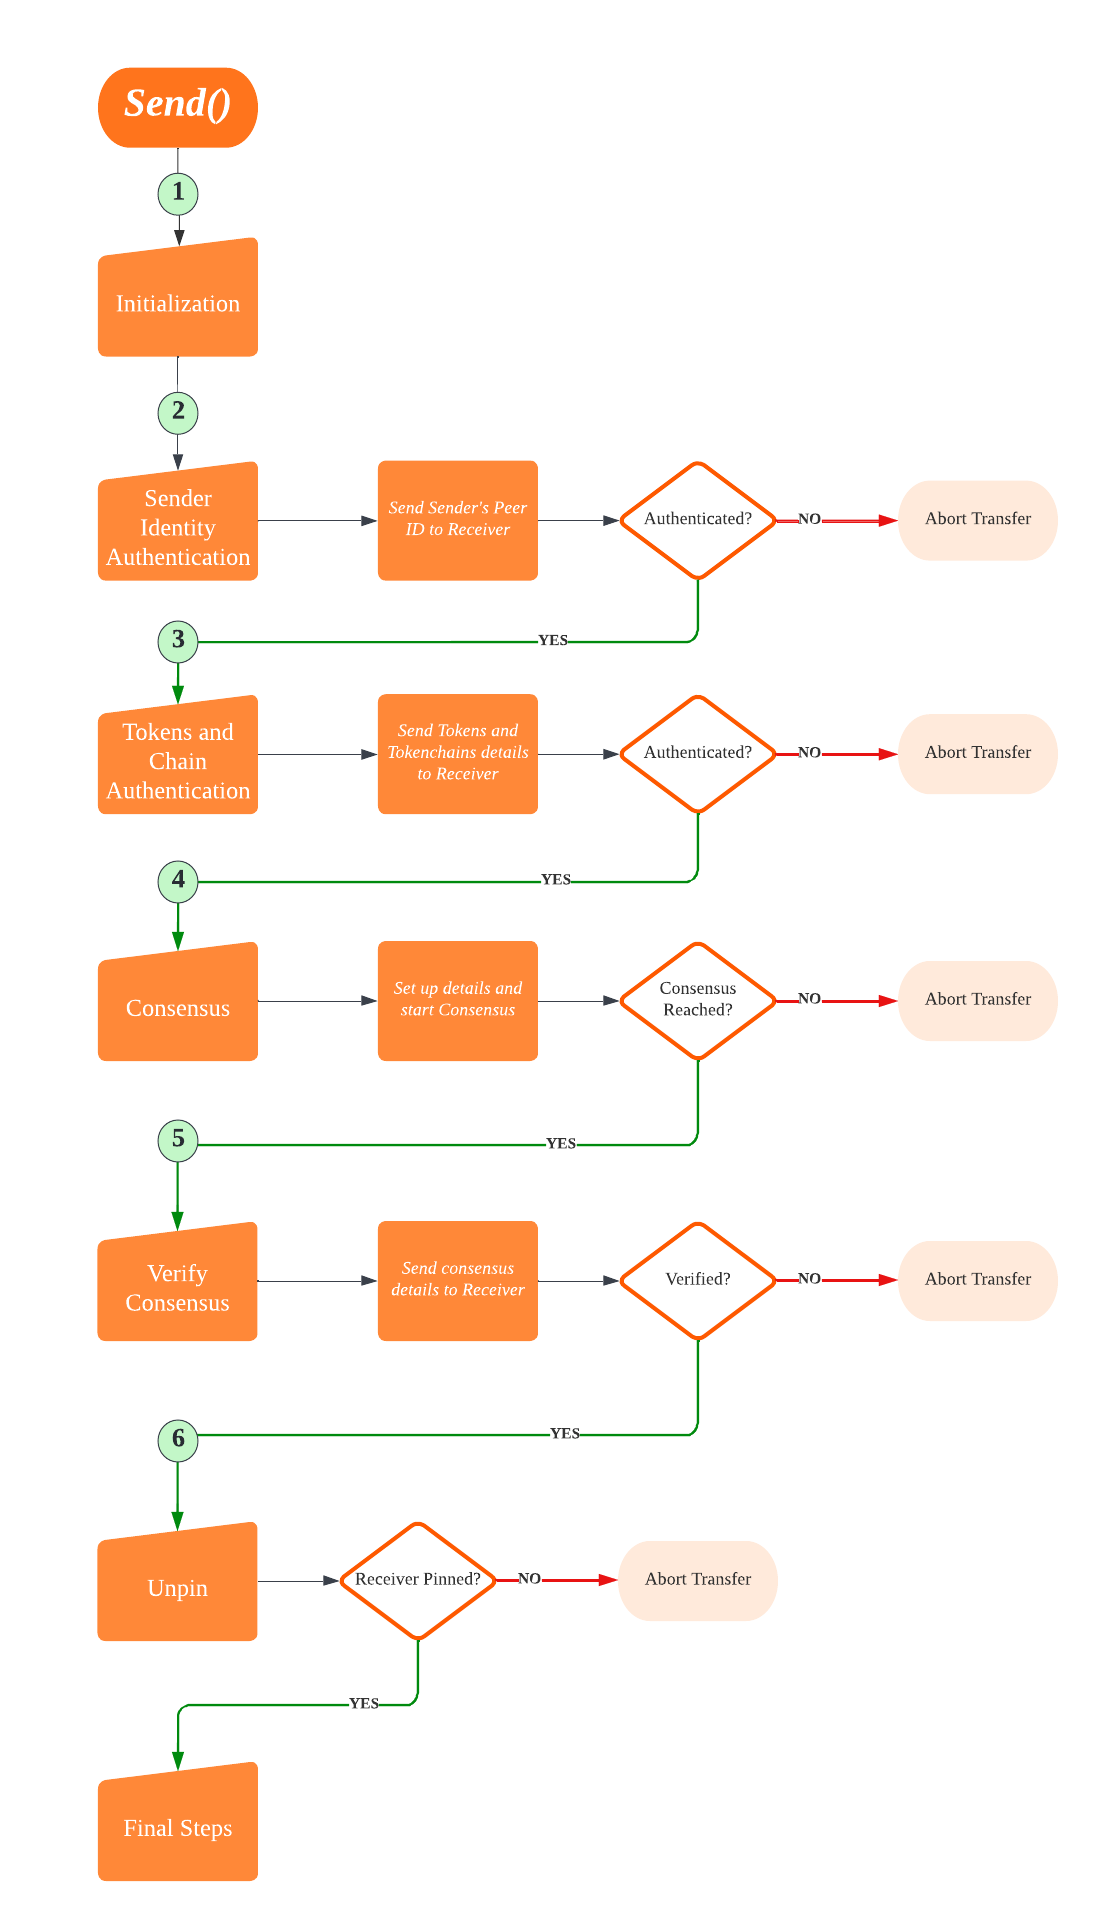
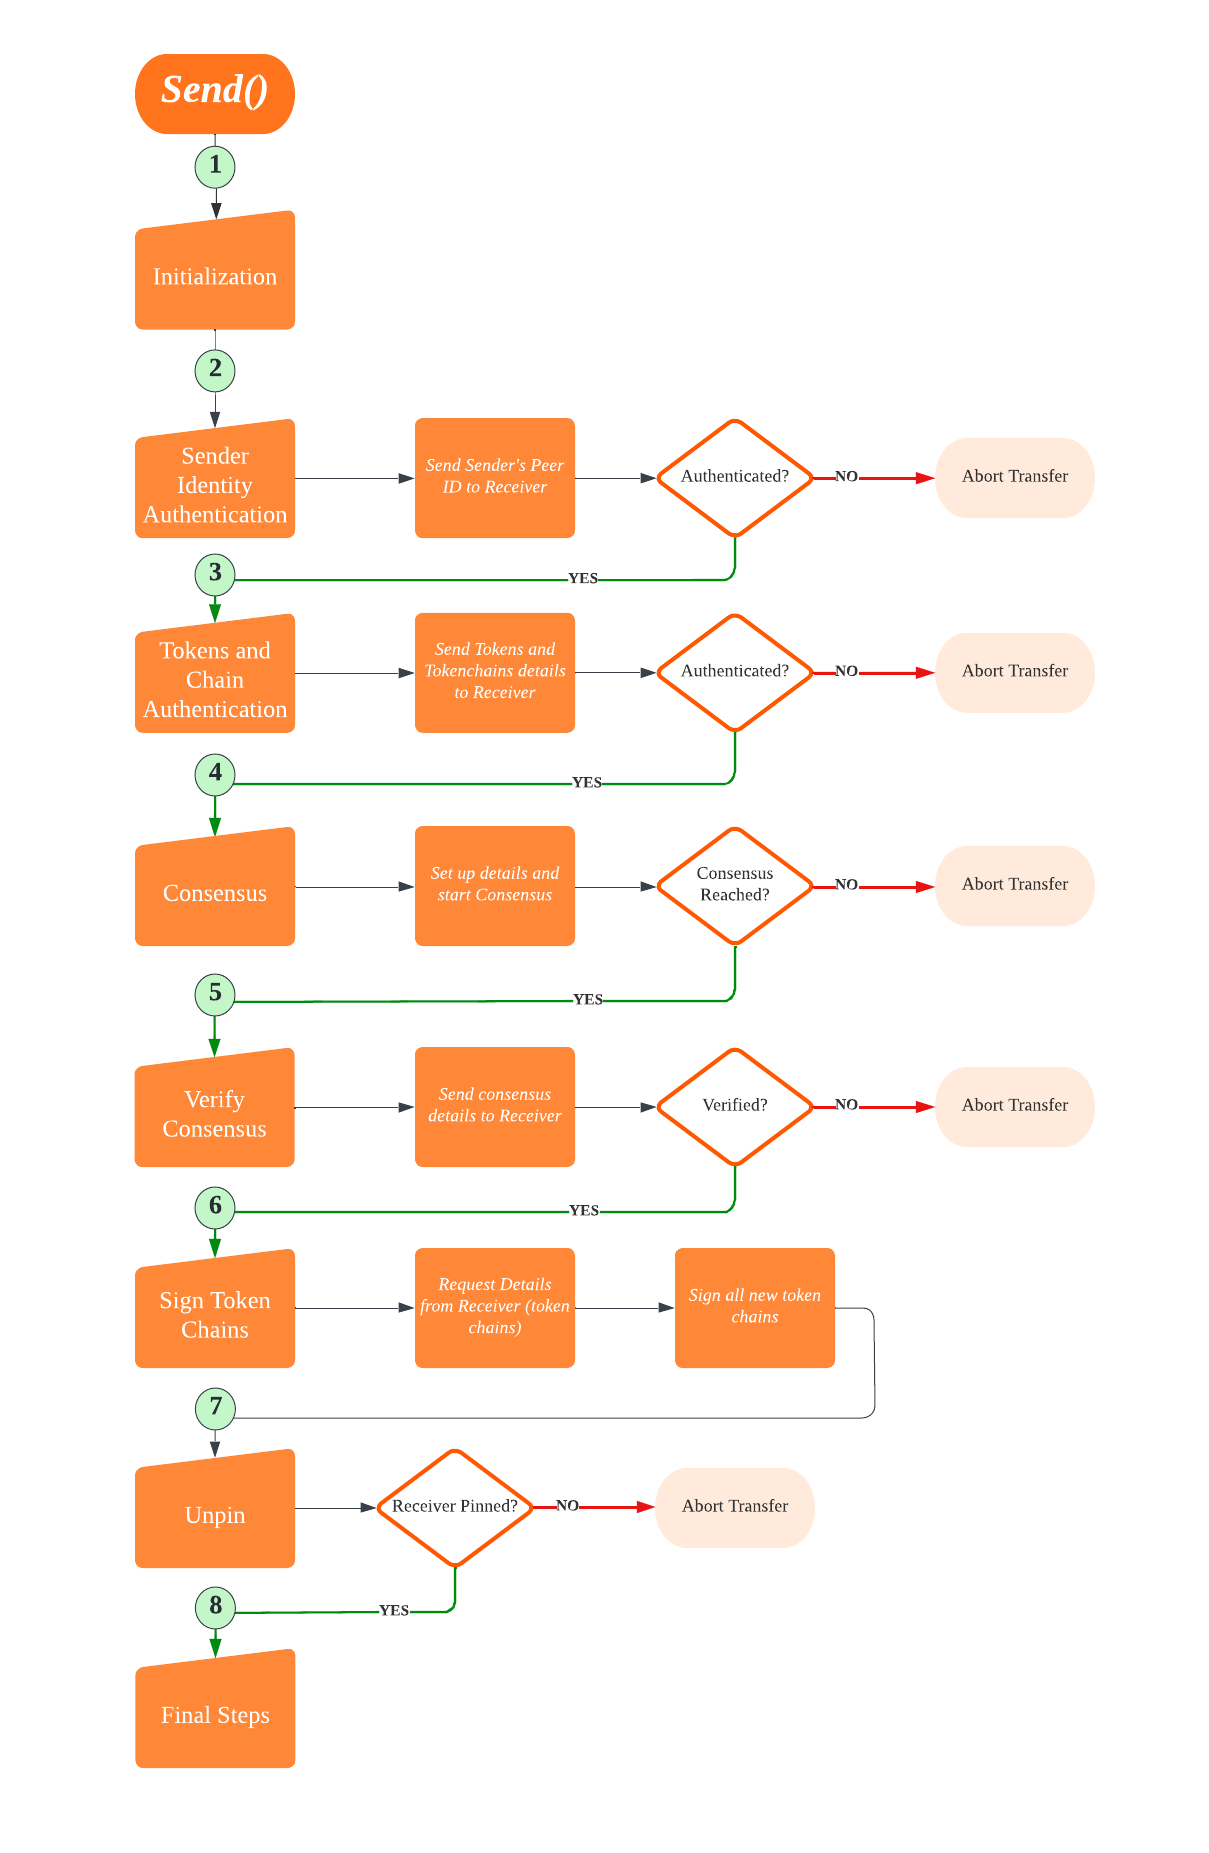
Added a new block to flow(token-chain signing)

Changed region(s): [[0.0619, 0.0308, 0.9599, 0.9843], [0.7432, 0.3384, 0.9599, 0.7075], [0.4954, 0.7383, 0.5264, 0.769]]

diff --git a/content/tokenTransfer/Sender.md b/content/tokenTransfer/Sender.md
@@ -10,8 +10,9 @@
 2. Sender Auth by Receiver
 3. Tokens and chains Auth by Receiver
 4. Consensus
-5. Unpinning
-6. Final steps
+5. Sign the token-chain for immutability 
+6. Unpinning 
+7. Final steps
 
 > *Note: The flow is considering all success codes received by the receiver and quorum during the whole transfer*
 *In any case of failure or transaction abortion, the failure message will be returned to the API*
@@ -47,17 +48,23 @@ Send the sender Peer ID for sender authentication by Receiver
    - The amount that is currently being sent
    - Amount ledger for each part token to keep track of how much part of the token has already been spent (how much of a token is remaining in parts to be sent)
 
-CONSENSUS SET UP  
-Assemble the following data for consensus  
+### CONSENSUS 
+1. Assemble the following data for consensus  
    - Tid
    - Message
    - Receiver DID
    - Private share location of the sender
    - Tokens
    - Alpha beta and gamma list
+2. Run consensus
 
 ### AUTHENTICATE CONSENSUS DETAILS BY THE RECEIVER
 Send the status (Consensus Reached or failed) and quorum signatures to the receiver for verification
+
+### SIGN TOKEN-CHAIN FOR IMMUTABILITY
+1. Request the receiver to provide the new blocks being added to the token-chain
+2. Hash and Sign the whole token-chain for every token transferred (to be added in receiver side)
+3. Hashes and Signatures of respective token-chains will be sent back to the receiver
 
 ### UNPINNING
 1. Unpin all tokens from the local node  
